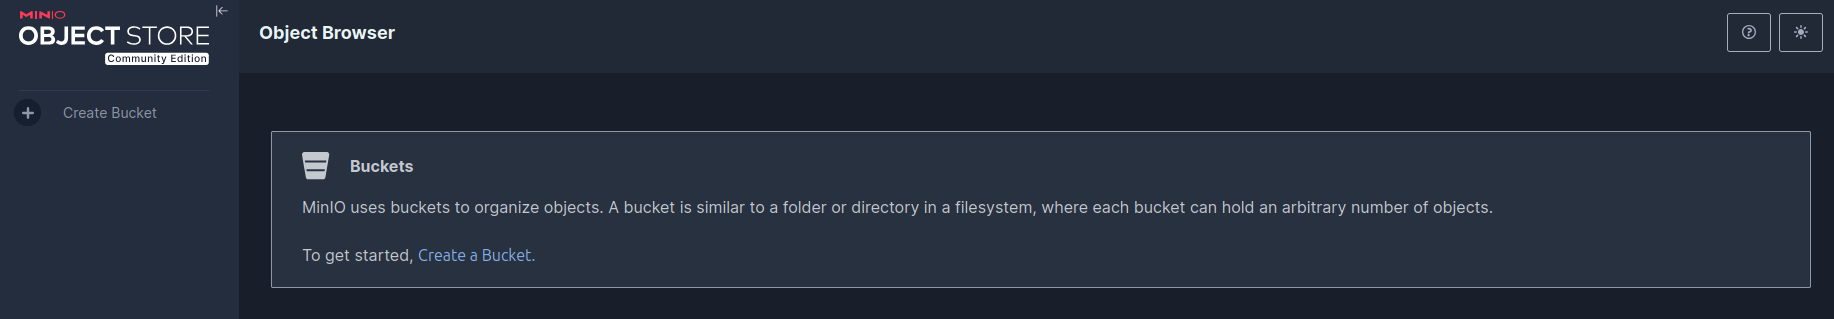
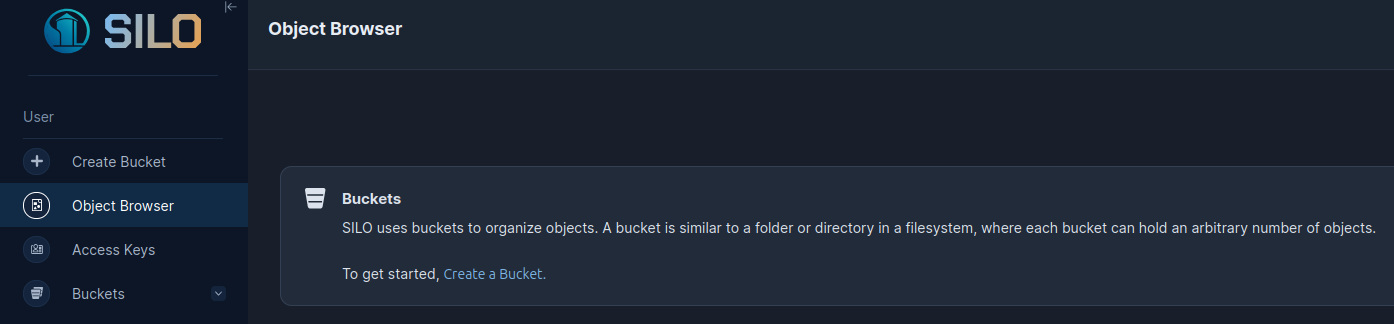
Part-4 edits

diff --git a/tutorials/studying/part-4/11_istio.md b/tutorials/studying/part-4/11_istio.md
@@ -210,9 +210,9 @@ ssh Host lf-cpouta
 
 ![Figure 1](./images/oss-kubeflow-ui.png)
 
-- [Kubeflow MinIO](http://kubeflow.minio.oss:7001)  (user is minio and password minio123)
+- [Kubeflow MinIO](http://kubeflow.minio.oss:7001) (user is minio and password minio123)
 
-![Figure 2](./images/oss-kubeflow-minio-ui.png)
+![Figure 2](./images/oss-minio-ui.png)
 
 - [MLflow UI](http://mlflow.oss:7001)
 
@@ -220,7 +220,7 @@ ssh Host lf-cpouta
 
 - [MLflow MinIO](http://mlflow.minio.oss:7001) (user and password is minioadmin)
 
-![Figure 4](./images/oss-mlflow-minio-ui.png)
+![Figure 4](./images/oss-minio-ui.png)
 
 - [Prometheus](http://prometheus.oss:7001)
 

diff --git a/tutorials/studying/part-4/02_cpouta.md b/tutorials/studying/part-4/02_cpouta.md
@@ -219,7 +219,7 @@ sudo apt install nvidia-driver-535
 5. Reboot VM (Confirm that you are using the correct terminal)
 
 ```
-Sudo reboot
+sudo reboot
 ```
 
 6. Confirm drivers 
